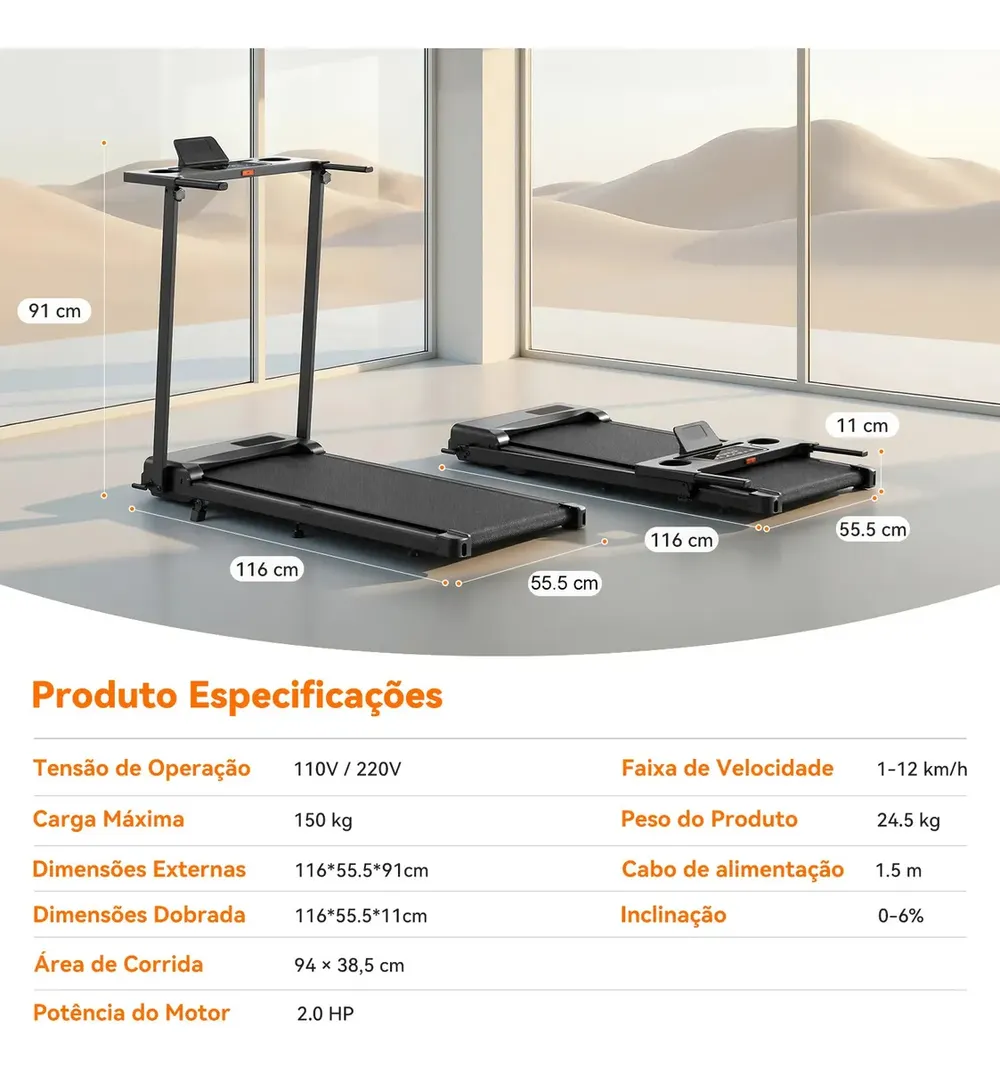
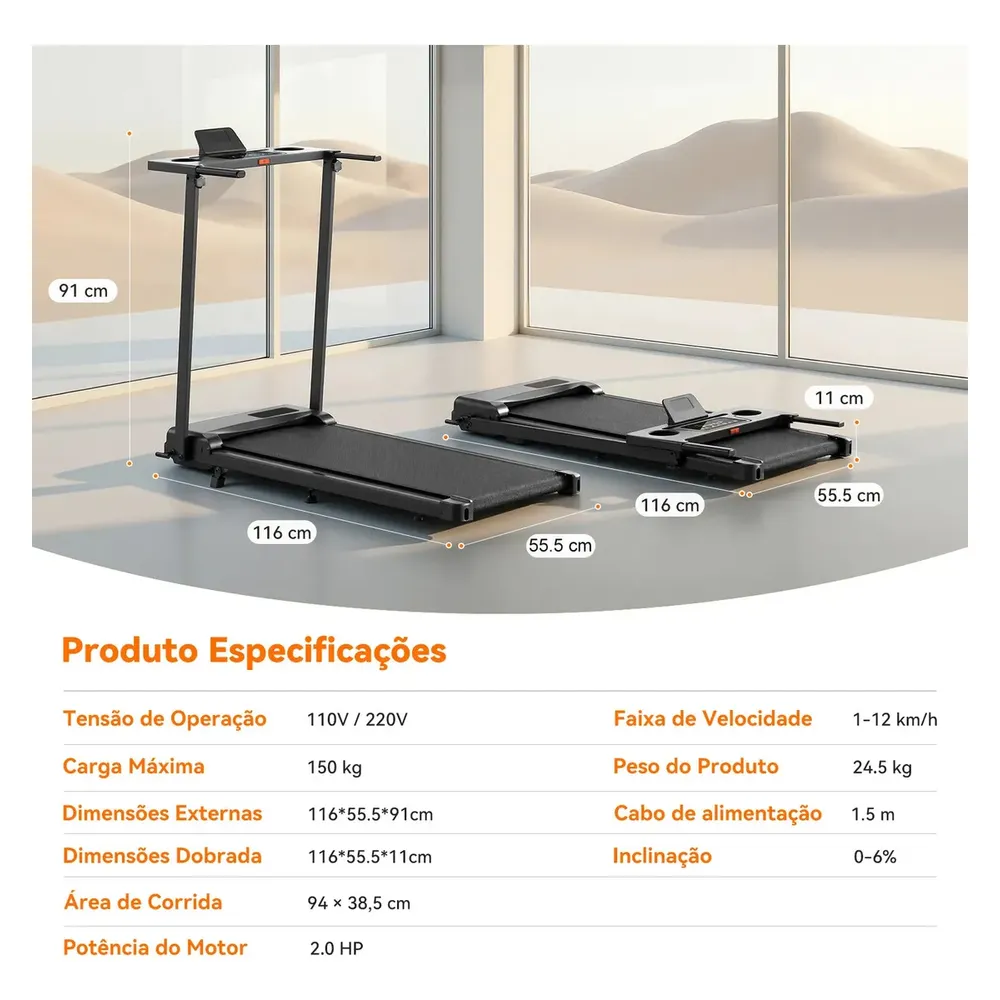
Padronizar as imagens da página de oferta da QBuen AT-1271
As sete imagens tinham proporções diferentes e estavam empilhadas uma
embaixo da outra. Agora todas são 1000x1000 com fundo branco, com a
mesma borda e o mesmo raio; as seis de detalhe ficam numa galeria de
2 colunas (1 coluna no celular) sob o título "Veja a QBuen AT-1271 de
perto", e a principal segue sozinha abaixo do primeiro CTA.

diff --git a/src/styles.css b/src/styles.css
@@ -520,7 +520,22 @@ a:hover { color: var(--primary-ink); }
   padding: 1rem 1.15rem;
   margin-bottom: 0.75rem;
 }
-.landing-img { display: block; width: 100%; max-width: 34rem; height: auto; margin: 0 auto 1.25rem; border-radius: var(--radius-md); }
+/* Imagens da página de oferta: todas no mesmo quadro 1:1 (os arquivos já são
+   1000×1000, com fundo branco), mesma borda e mesmo raio. Galeria em 2 colunas
+   a partir de 640px, 1 coluna no celular para o texto das imagens seguir legível. */
+.landing-img {
+  display: block;
+  width: 100%;
+  height: auto;
+  aspect-ratio: 1 / 1;
+  object-fit: contain;
+  background: #fff;
+  border: 1px solid var(--border);
+  border-radius: var(--radius-md);
+}
+.landing-img--hero { max-width: 30rem; margin: 0 auto 2rem; }
+.landing-gallery { display: grid; grid-template-columns: 1fr; gap: 1rem; margin: 0 0 2.5rem; }
+@media (min-width: 40rem) { .landing-gallery { grid-template-columns: 1fr 1fr; } }
 .landing-micro { text-align: center; font-size: 0.875rem; color: var(--muted); margin: 0 auto 2.5rem; }
 
 /* ---------- Hero (vídeo) ---------- */
